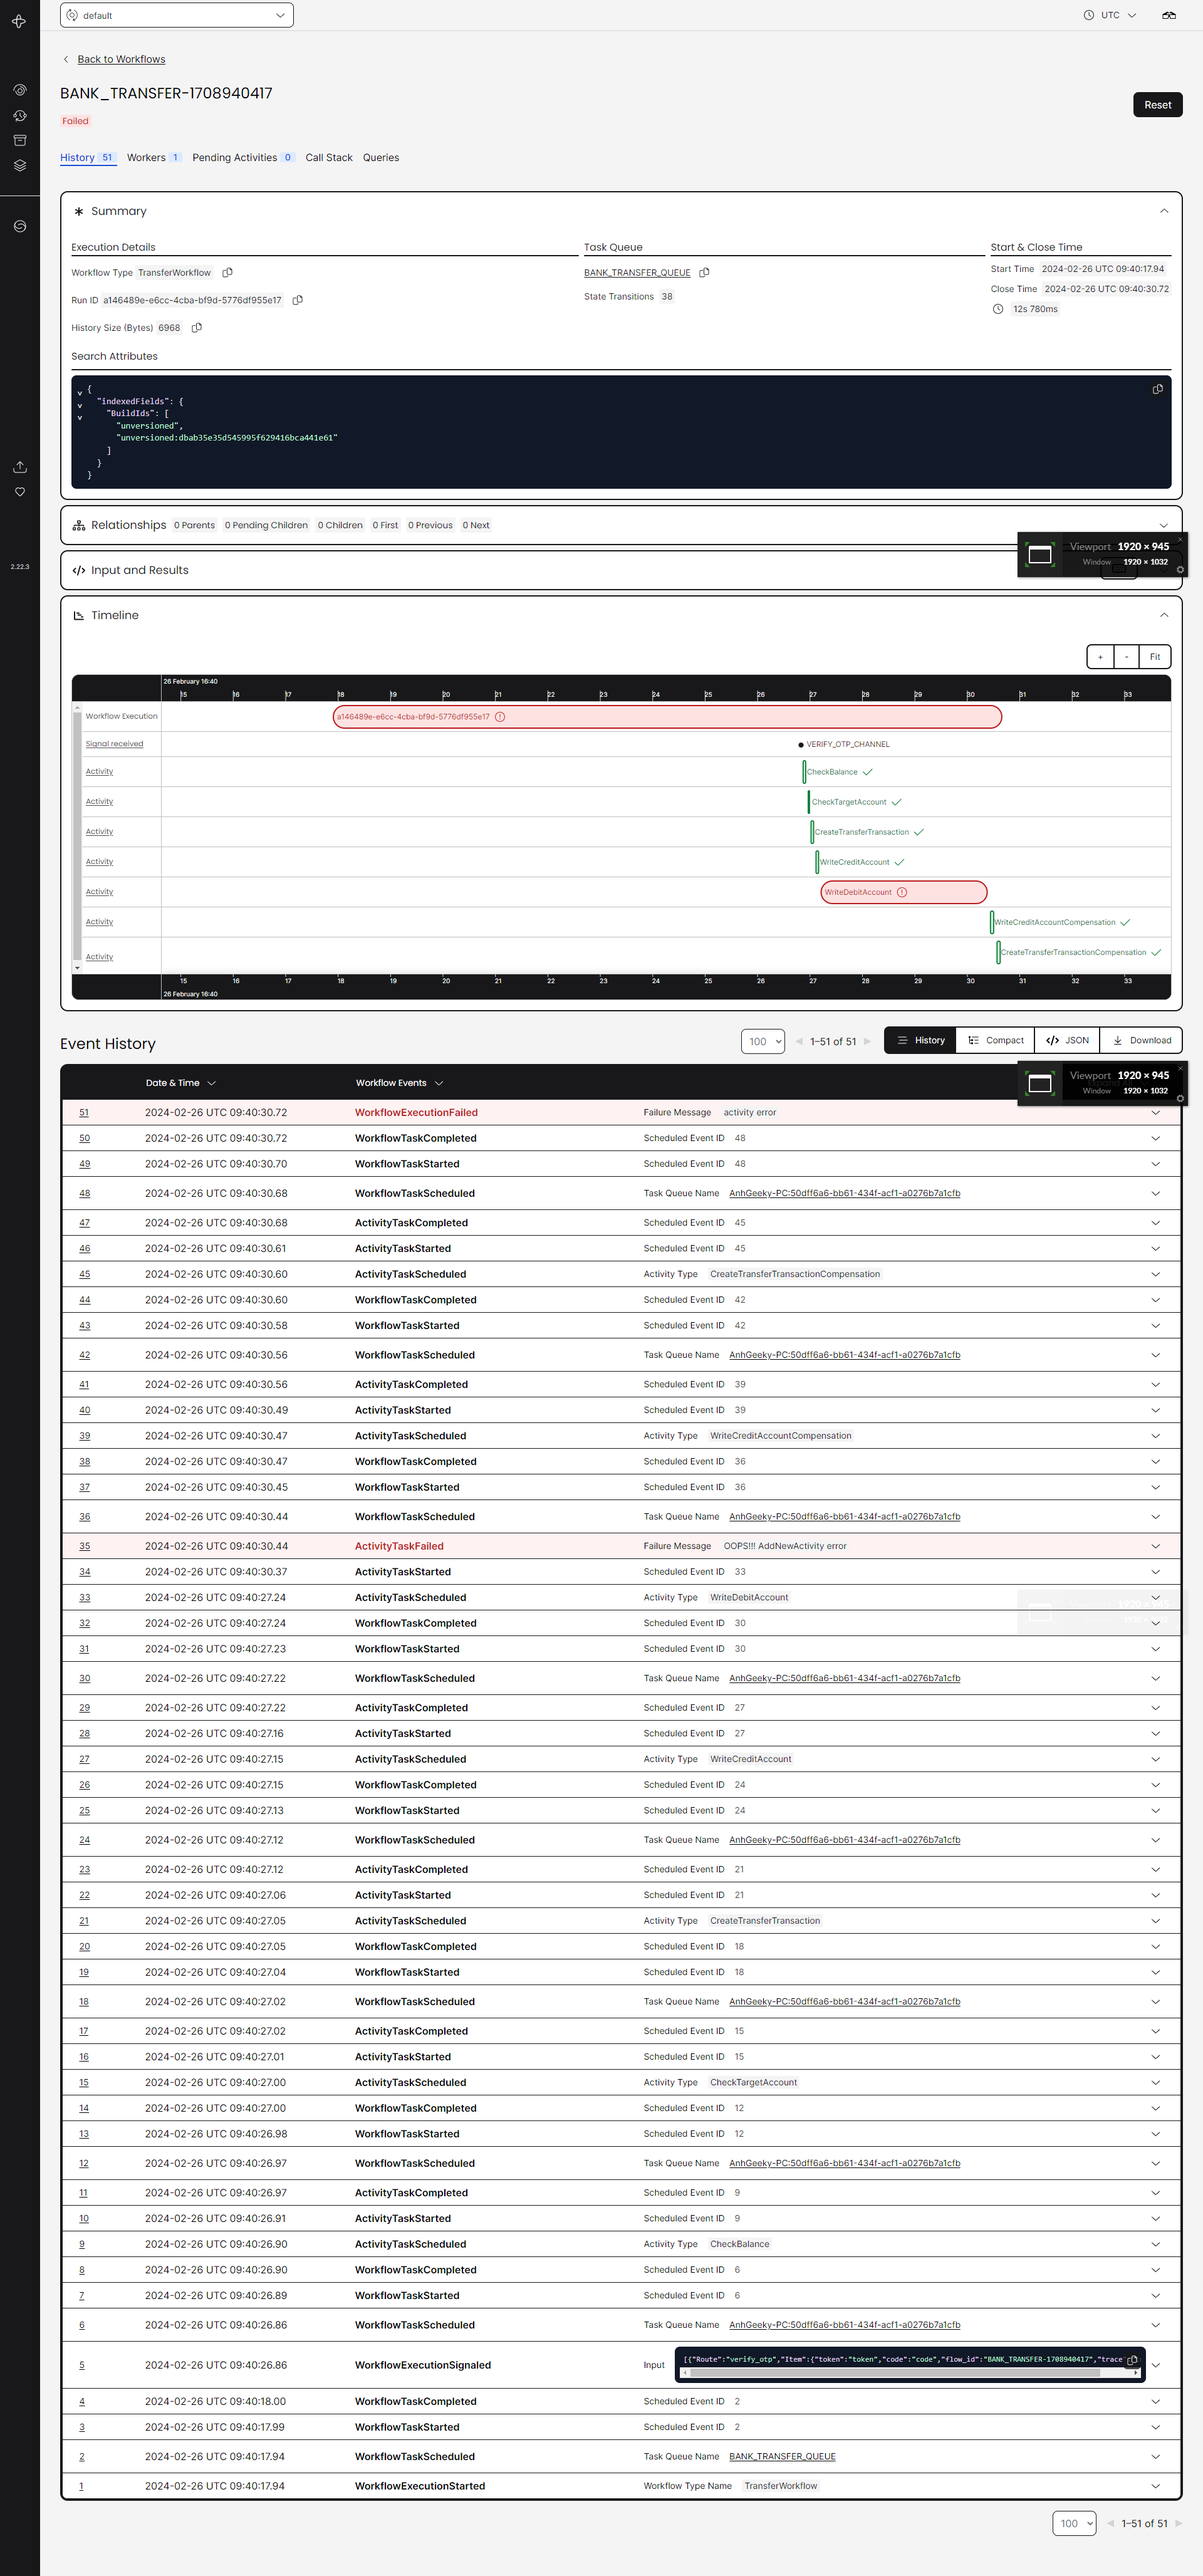
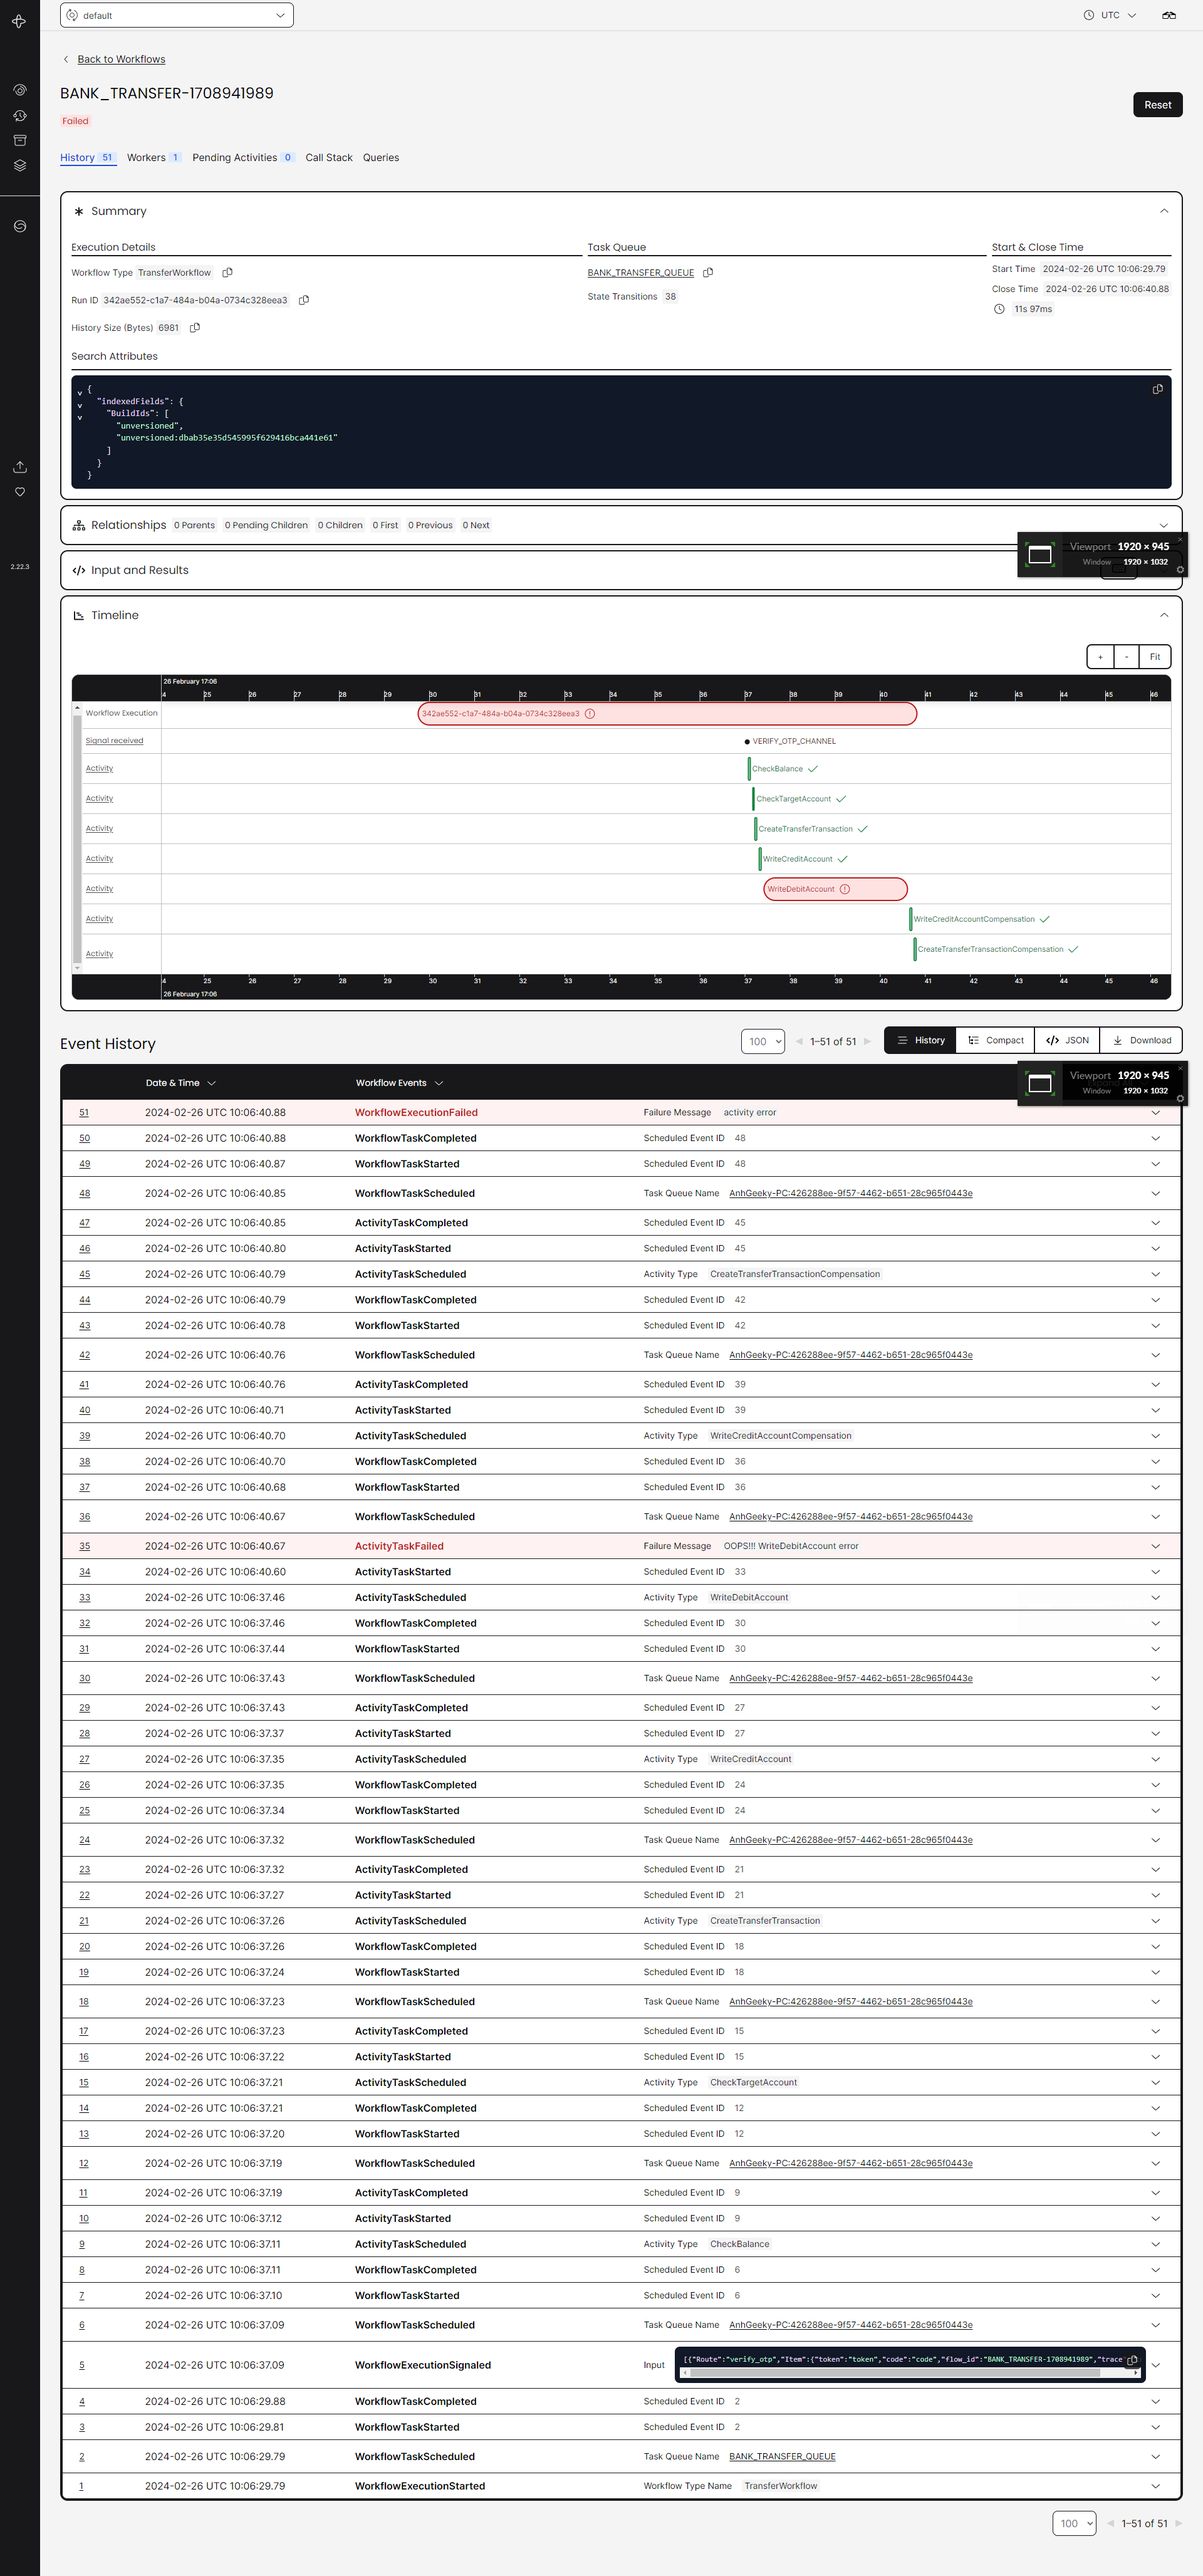
Update code

diff --git a/services/mcs-money-transfer/apis/controllers/transfer_controller.go b/services/mcs-money-transfer/apis/controllers/transfer_controller.go
@@ -80,7 +80,7 @@ func (r TransferController) WriteCreditAccount(c *fiber.Ctx) error {
 
 func (r TransferController) WriteDebitAccount(c *fiber.Ctx) error {
 	// TODO: Đang test case lỗi error
-	return responses.WriteError(c, errors.New("OOPS!!! AddNewActivity error"))
+	return responses.WriteError(c, errors.New("OOPS!!! WriteDebitAccount error"))
 	// return responses.SuccessResult[transaction.SampleRes](c, transaction.SampleRes{Msg: "OK"})
 }
 
